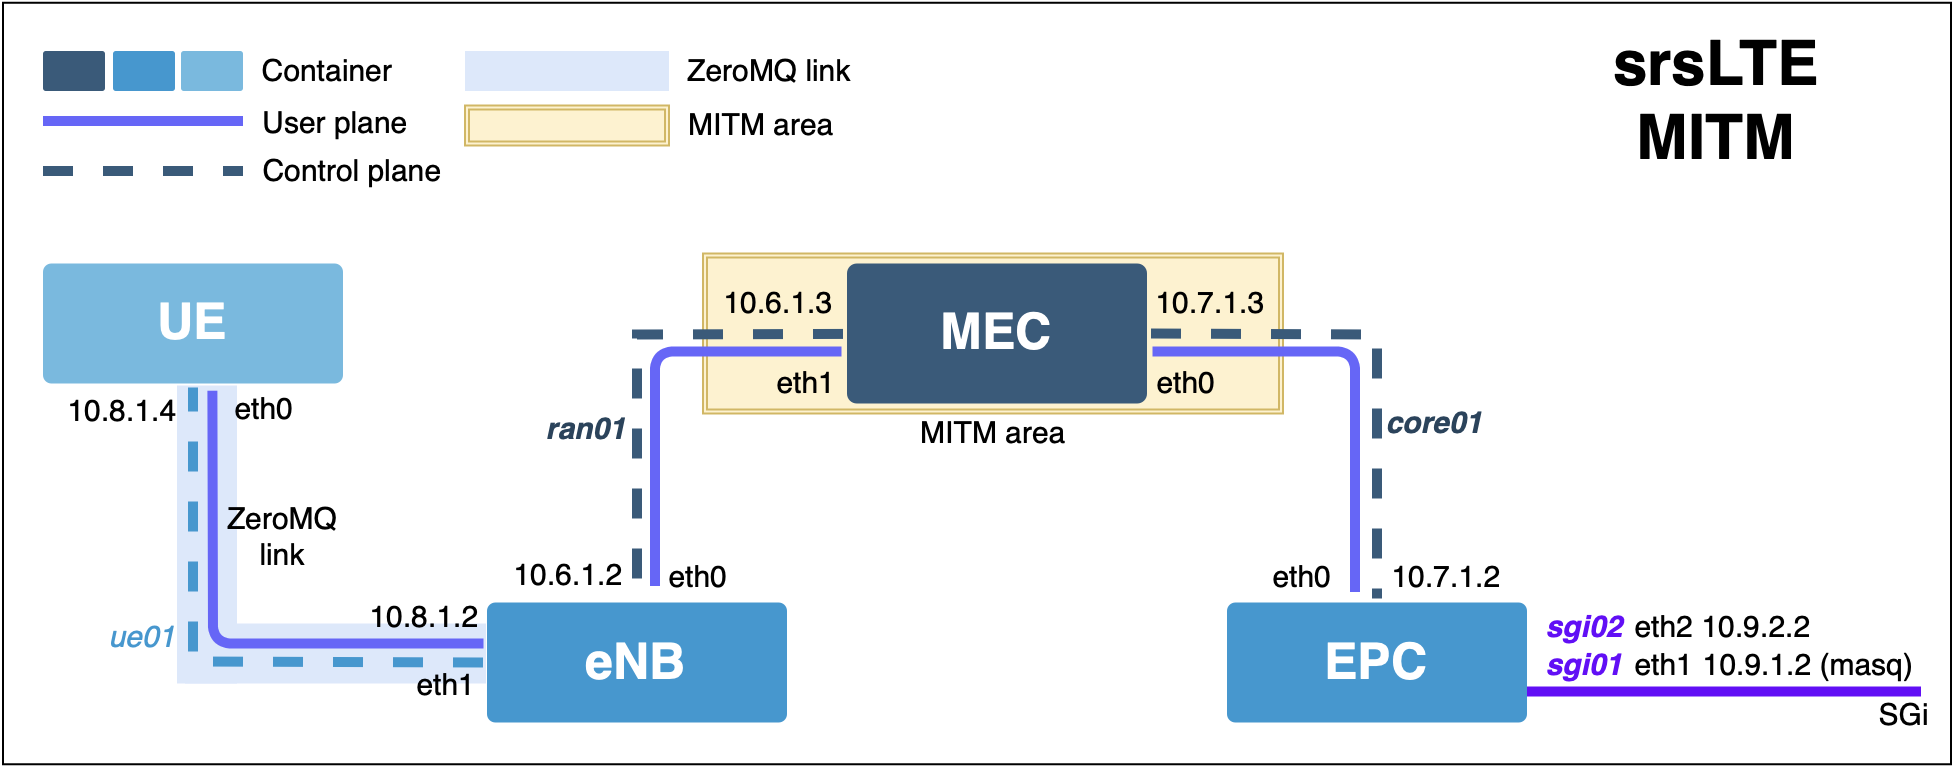
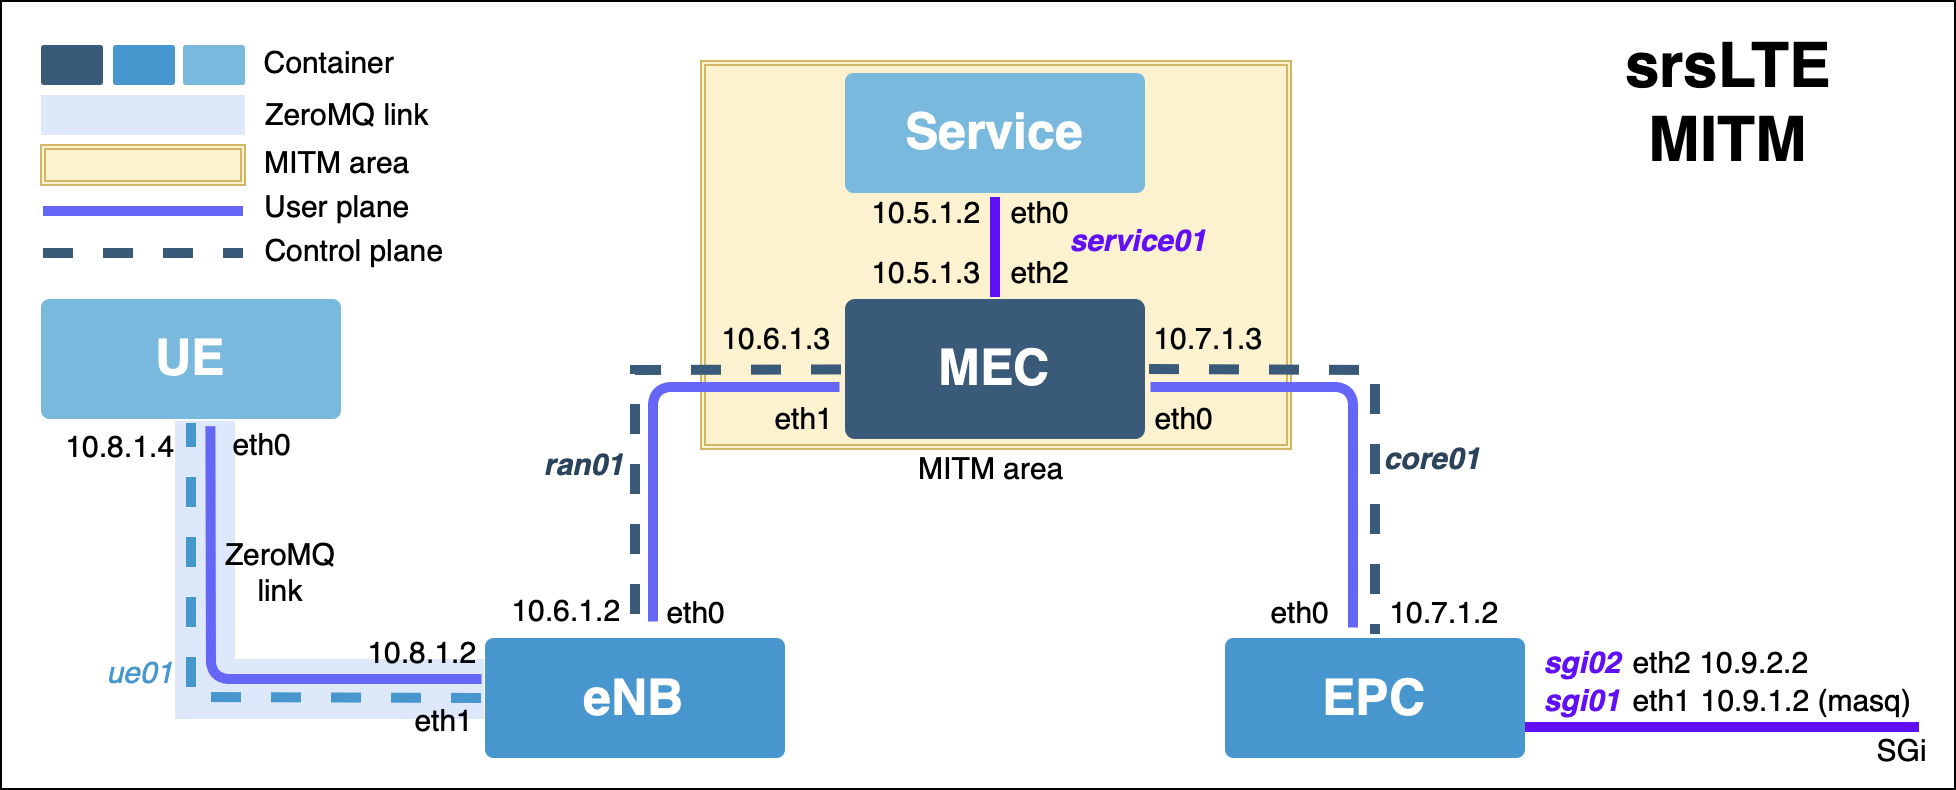
Update# support forward packets to edge local service

Changed region(s): [[0.0, 0.0, 1.0, 1.0]]

diff --git a/README.md b/README.md
@@ -45,6 +45,8 @@ python2 /root/file/mec_net_pkt_filter.py
 python2 /root/file/mec_net_pkt_filter_advanced.py
 # 可以解 gtp-u 封包 (以 dns spoof 為範例)
 python2 /root/file/mec_net_pkt_filter_advanced_dns_spoof.py
+# 將流量導至 Local Service
+python2 /root/file/mec_net_pkt_fwd_edge_service.py
 ```
 
 #### EPC 端
@@ -64,6 +66,10 @@ srsue --rf.device_name=zmq --rf.device_args="tx_port=tcp://*:20001,rx_port=tcp:/
 ```
 # 等連線後，在另一個分頁執行
 bash /root/file/ue_net_switch_to_cellular.sh
+
+# 如果在 MEC 執行 dns spoof 或是 fwd edge service 可以驗證一下結果
+ping example.com
+ping google.com 
 ```
 
 # 暫時離開 Docker compose (會保留資料)
